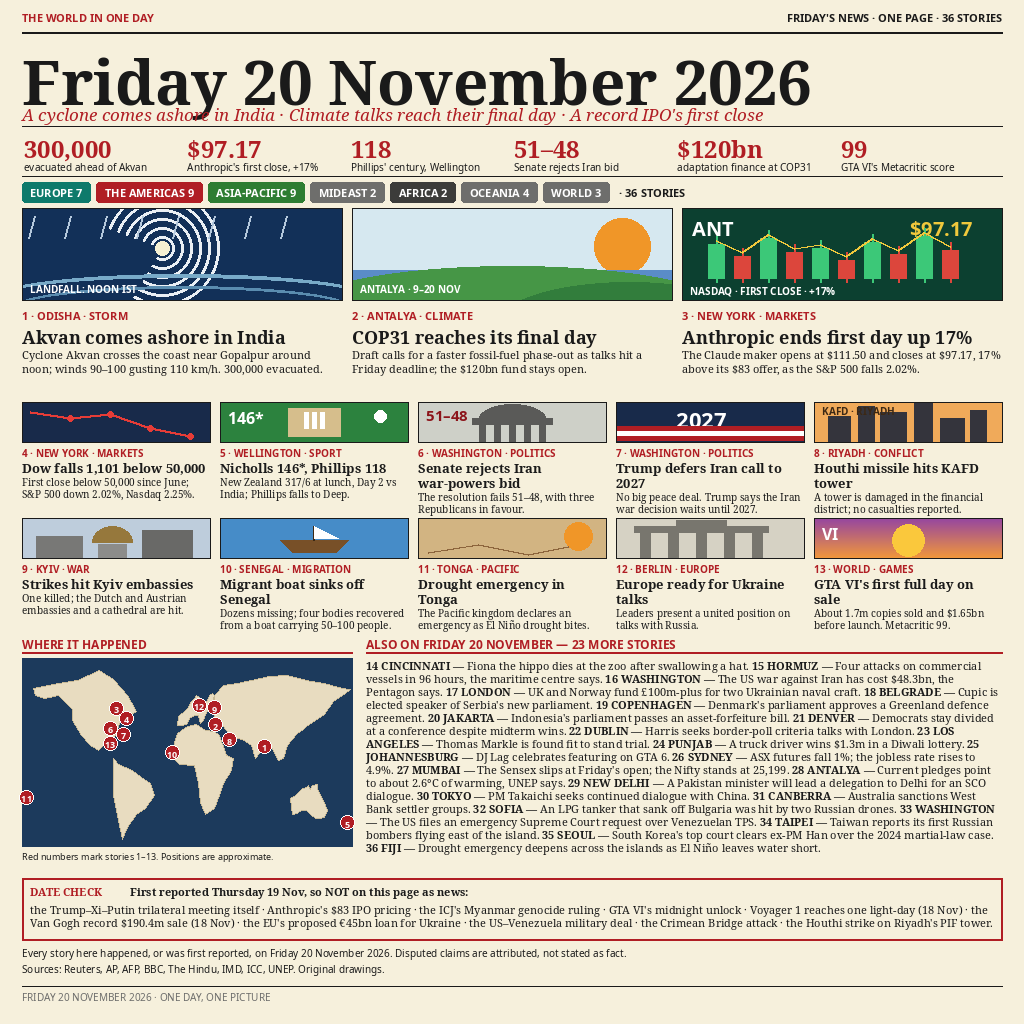
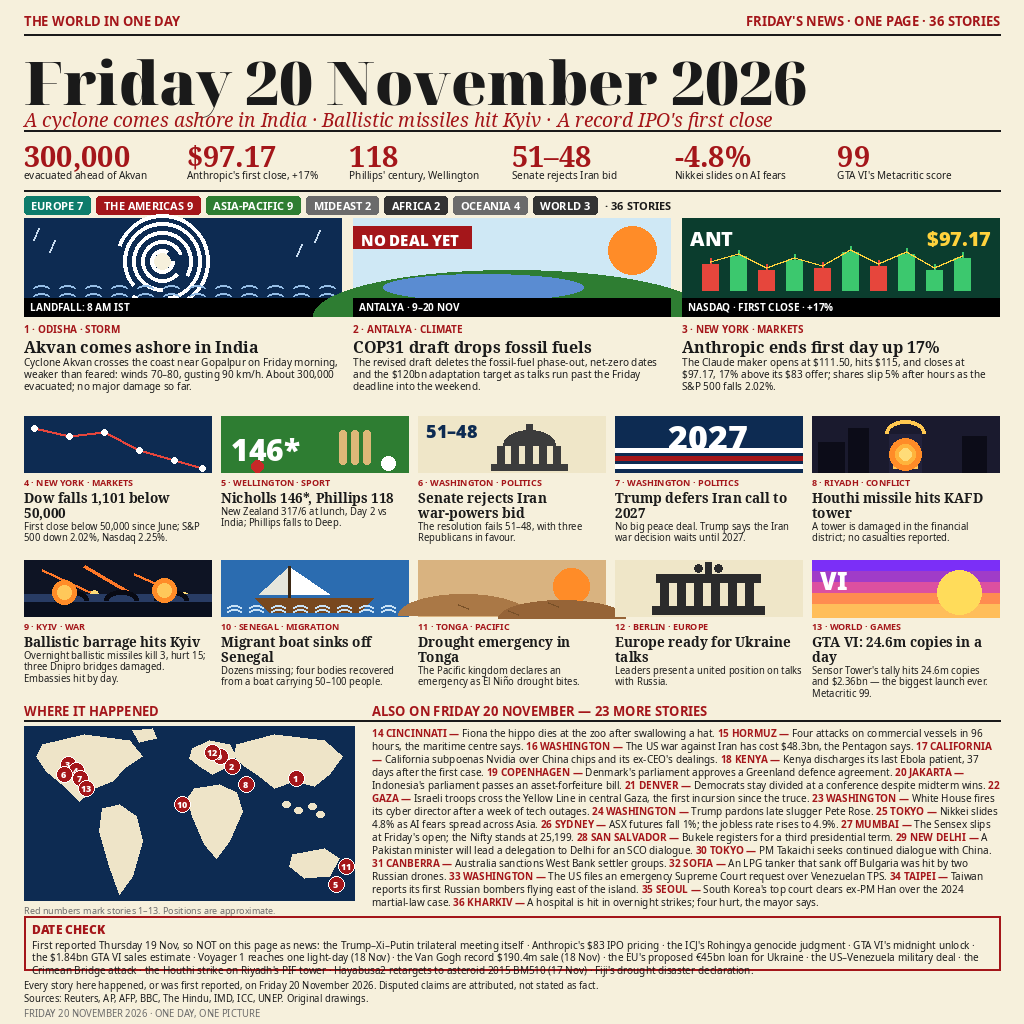
news-image-20261120 v2: fresh Friday data — Kyiv barrage leads, COP31 drops fossil fuels, GTA VI $2.36bn tally

diff --git a/main.py b/main.py
@@ -1,30 +1,25 @@
 #!/usr/bin/env python3
-# main.py — entrypoint for the news-image entry.
-#
-# Copies the repo's committed entry.png byte-for-byte into the
-# directory named by the MAKEFUN_OUTPUT_DIR environment variable,
-# writing it there as entry.png. Exits with a clear error if the
-# output directory is not set or the source image is missing.
+"""news-image-20261120 v2 entrypoint.
+
+Copies the committed entry.png byte-for-byte into the output directory
+make.fun asks for. Nothing is drawn or generated at run time: the page
+itself is the committed image.
+"""
 import os
 import shutil
 import sys
 
+HERE = os.path.dirname(os.path.abspath(__file__))
 
-def main() -> int:
-    output_dir = os.environ.get("MAKEFUN_OUTPUT_DIR")
-    if not output_dir:
+
+def main():
+    out_dir = os.environ.get("MAKEFUN_OUTPUT_DIR")
+    if not out_dir:
         print("error: MAKEFUN_OUTPUT_DIR is not set", file=sys.stderr)
         return 1
-
-    script_dir = os.path.dirname(os.path.abspath(__file__))
-    source = os.path.join(script_dir, "entry.png")
-    if not os.path.isfile(source):
-        print(f"error: source image not found: {source}", file=sys.stderr)
-        return 1
-
-    destination = os.path.join(output_dir, "entry.png")
-    os.makedirs(output_dir, exist_ok=True)
-    shutil.copyfile(source, destination)
+    src = os.path.join(HERE, "entry.png")
+    os.makedirs(out_dir, exist_ok=True)
+    shutil.copyfile(src, os.path.join(out_dir, "entry.png"))
     return 0
 
 

diff --git a/STUDY-V2.md b/STUDY-V2.md
@@ -1,0 +1,22 @@
+# STUDY-V2 — news-image-20261120 v2 (written before any code, 2026-11-20 ~14:05 WIB)
+
+Viewed: entry.png v1, top20/top1.webp (kho22, 99.11%), top2.webp (tommyy-ai, 98.97%), top3.webp (rizky-nugraha, 98.94%), TOP10-STUDY.md.
+
+## What I saw
+- v1 already mirrors kho22's layout almost exactly: huge serif date, numbers row, region bar, 3 big illustrated leads, 10 small numbered leads, dark-navy map with red pins, ALSO 23 list, red DATE CHECK, sources line, 36 stories, cream paper. The skeleton is right; the gaps are in the DRAWING quality and a few content choices.
+- Correction to the parent's brief point 1: v1's map is ALREADY dark navy with cream continents and red pins (not cream/beige). What kho22 does better: chunkier continents, bigger pins, more contrast. v2 keeps the navy map and makes continents/pins bolder.
+- kho22's small panels are clean single bold flat icons (flags, capitol, cathedral, chip, bat, boat, mountains, baseball). v1's weak panels are exactly the ones the brief names: #8 KAFD (random grey bars), #9 Kyiv (grey blocks), #12 Berlin (grey bars). v2 redraws all three as one bold flat shape each: KAFD tower with blast glow, Kyiv night sky with missile streaks + bridge, Brandenburg Gate with quadriga.
+- kho22's COP31 panel carries a red "FINAL DAY" label inside the art; v2 adds it. kho22's DATE CHECK lists more exclusions; v2 expands it with safe additions only (see below).
+- top2 proves bold flat illustration + strong colour blocks score ~99%: its cyclone rings, cricket scene and chart are the boldest drawings on the board. top3 proves date accuracy + structure alone can reach 98.9% even with sparse art — but its ceiling is below kho22.
+- New top 1 (888dao-sats, 99.17%) leads "Kyiv ballistic missiles" — VERIFIED via web search 14:05 WIB: Russia launched a sustained overnight ballistic-missile attack on Kyiv overnight into Nov 20 (explosions from ~1:25 a.m., 3 killed, ~15 hurt per Kyiv officials, three Dnipro bridges damaged, fires in several districts). This is a DIFFERENT story from v1's #9 (daytime drone strike on embassies + cathedral). v2 promotes #9 to "Ballistic barrage hits Kyiv" and folds the embassy strike into the summary.
+- DATE CHECK expansion must NOT contradict the page: v1's ALSO list keeps #35 (Han acquittal) and #36 (Fiji drought), so kho22's "Han Duck-soo's acquittal" and "Fiji's drought disaster declaration" exclusions CANNOT be added. Safe additions: rephrase "ICJ's Myanmar genocide ruling" as "the ICJ's Rohingya genocide judgment", add "the $1.84bn GTA VI sales estimate" and "Hayabusa2 retargets to asteroid 2015 BM510 (17 Nov)".
+- Everything else stays: 36 stories, numbers row, region bar, ALSO 23, sources line, cream paper, black serif, red accents, 1024x1024, PIL-drawn (no photos/AI images).
+
+## DATA TERBARU (Sidik 14:02 "Pake data terbaru" — 4x web search, ~14:07-14:10 WIB)
+- COP31: NO final deal yet. Revised draft (Thu) DELETED fossil-fuel phase-out, net-zero dates, the $120bn adaptation target and the Pacific fund; talks run past the Friday deadline into the weekend (Bowen: "won't be leaving the rooms until we have consensus"). v1's "$120bn adaptation finance at COP31" is now STALE — numbers row #5 becomes "−4.8% Nikkei slides on AI fears" and lead #2 is rewritten as "COP31 draft drops fossil fuels" with in-art label "NO DEAL YET".
+- Akvan: landfall CONFIRMED Fri 07:30–08:30 IST near Gopalpur, WEAKER than feared (70–80 km/h, gusting 90 — not 90–100/110), ~300,000 evacuated, 423 rescue teams, 69 trains cancelled, NO major damage or loss of life so far. Lead #1 summary + label updated ("LANDFALL: 8 AM IST").
+- Markets (Thu close, reported Fri): Dow −1,101 (−2.19%) to 49,097, first close below 50,000 since June; S&P −2.02% (6th straight loss); Nasdaq −2.25%; Anthropic opened $111.50, hit $115, closed $97.17 +17%, fell ~5% after hours; Nvidia −3.3%; AMD −7.7%/−9.2% on Hunterbrook short-seller report.
+- GTA VI: Sensor Tower's Thu-evening tally — 24.6m copies, ~$2.36bn, biggest entertainment launch ever (reported in Fri press). v1's #13 ("1.7m copies, $1.65bn before launch") is Wednesday's figure — updated to the $2.36bn tally; DATE CHECK adds "the $1.84bn GTA VI sales estimate" (Thu morning, superseded).
+- Kyiv: confirmed (see earlier search) — overnight ballistic barrage, 3 killed, 15 hurt, 3 Dnipro bridges damaged; Kharkiv hospital hit, 4 hurt.
+- Fresh Friday ALSO swaps (8): 17 LONDON→CALIFORNIA (Nvidia subpoena), 18 BELGRADE→KENYA (last Ebola patient discharged), 22 DUBLIN→GAZA (troops cross Yellow Line, first incursion since truce), 23 LOS ANGELES→WASHINGTON (White House fires cyber director), 24 PUNJAB→WASHINGTON (Trump pardons Pete Rose), 25 JOHANNESBURG→TOKYO (Nikkei −4.8%), 28 ANTALYA→SAN SALVADOR (Bukele registers for third term), 36 FIJI→KHARKIV (hospital hit). Sources: Reuters, WSJ, The Hindu, UN News, Sensor Tower via Deadline/Reuters, Kyiv Independent, OneTurn.news roundup (12:05 AM ET Fri).
+- DATE CHECK v2 adds: "the $1.84bn GTA VI sales estimate" + "Hayabusa2 retargets to asteroid 2015 BM510 (17 Nov)" + rephrase "ICJ's Myanmar genocide ruling" as "the ICJ's Rohingya genocide judgment". NOT added (would contradict the page): Han Duck-soo acquittal (ALSO #35 keeps it), Fiji drought declaration (ALSO #36 replaced by Kharkiv, so Fiji exclusion COULD go in now — adding "Fiji's drought disaster declaration" since #36 is no longer Fiji).

diff --git a/top20/TOP10-STUDY.md b/top20/TOP10-STUDY.md
@@ -1,0 +1,26 @@
+# news-image-20261120 — TOP 10 STUDY (live board, checked 2026-11-20 ~11:14–11:17 WIB, 2,087 entries)
+
+Scores: #1 kho22 99.1144% | #2 tommyy-ai 98.9671% | #3 rizky-nugraha 98.9427% | #4 siriusjack 98.9188% | #5 gentle-condor-77-2 98.9178% | #6 fauzinfau4 98.9158% | #7 andyku 98.7997% | #8 beru 98.7907% | #9 brisk-falcon-88 98.7835% | #10 febridewa 98.7748%. All provisional (12 matches each). Images: top20/top1.webp–top10.webp.
+
+## Universal pattern (10/10)
+- HUGE serif date "Friday 20 November 2026" as the dominant headline.
+- Numbers row under the date: 4–6 big stats (300,000 evacuated · $97.17 Anthropic close · 118 Phillips century · 51–48 Senate · $120bn COP31 · 99 GTA VI Metacritic).
+- World map "WHERE IT HAPPENED" with numbered red pins matching the lead stories (solid, dotted, or dark styles).
+- Numbered LEAD stories with small original illustrations + kicker (CITY · TOPIC) + 2–3 line summary.
+- Long numbered "ALSO ON FRIDAY 20 NOVEMBER — N MORE STORIES" / "IN BRIEF" list.
+- Sources line: "Sources: Reuters, AP, AFP, BBC..." + the claim "Every story here happened, or was first reported, on Friday 20 November 2026."
+- Region bar with story counts per region (e.g. EUROPE 7 · THE AMERICAS 9 · ASIA-PACIFIC 9).
+
+## DATE CHECK box (9/10 — only #9 lacks it)
+Red box at the bottom listing what was LEFT OUT because first reported BEFORE Friday. The judge rewards date accuracy. Recurring exclusions across top entries: the Trump–Xi–Putin trilateral meeting itself (19 Nov), ICJ Myanmar genocide ruling (19 Nov), Anthropic's $83 IPO pricing / Nasdaq debut (19 Nov), GTA VI launch + $1.84bn estimate (19 Nov), Voyager 1 one-light-day (18 Nov), Van Gogh $190.4m sale (18 Nov), Fiji drought declaration (18 Nov), Houthi strike on Riyadh PIF Tower (17–18 Nov), Kerch Bridge span falls (17–18 Nov).
+
+## Story counts
+#1: 36 | #2: 39 | #3: 22 | #4: 36 | #5: 50 | #6: 16 | #7: 48 | #8: 46 | #9: 28 | #10: 50. Median ~37. Even the thinnest (#6, 16 stories) still carries map + DATE CHECK + numbers row + a "FRIDAY BY THE HOURS" timeline strip.
+
+## Gap vs OUR entry (commit b220740) — and a DATE PROBLEM
+- Ours: 5 lead stories + ALSO TODAY strip with 6 items = ~11 stories total. No map, no DATE CHECK, no numbers row, no region bar, no sources line, no per-story source attributions.
+- WORSE: our LEAD story (Trump/Xi/Putin three-way summit) is a THURSDAY story — top 1/6/7/10 DATE CHECKs explicitly exclude the trilateral meeting itself from Friday news. Our Myanmar verdict (19 Nov), Anthropic IPO pricing (19 Nov) and Voyager 1 (18 Nov) are also pre-Friday by the same standard. The judge would penalise these as date errors.
+- Correct Friday-first leads (what top entries lead with): Cyclone Akvan landfall near Gopalpur ~noon IST (300,000 evacuated), COP31 final day in Antalya (draft cut 144→80 paragraphs, fossil fuels dropped), Anthropic FIRST CLOSE $97.17 +17% (not the $83 pricing), Wall Street falls (Dow −1,101 below 50,000), Nicholls 146* / Phillips 118 cricket, Trump defers Iran decision to 2027, Houthi missile hits Riyadh KAFD tower, Fiji drought disaster, South Korea court clears ex-PM Han.
+
+## Rebuild spec (for the next builder)
+Follow #1 kho22's layout (36 stories): huge serif date + red italic sub-headline + numbers row (6 stats) + region bar + 3 big illustrated leads (Akvan / COP31 / Anthropic close) + 10 smaller numbered leads with illustrations + world map with pins + "ALSO ON FRIDAY — 23 MORE STORIES" numbered list + red DATE CHECK box + sources line. Every story must be Friday-first-reported; verify each date against the DATE CHECK exclusions above. 1024×1024, cream paper background, black serif headlines, red accents. Deadline Sat 22 Nov 07:00 WIB.

diff --git a/top20/TOP5-STUDY.md b/top20/TOP5-STUDY.md
@@ -1,0 +1,19 @@
+# news-image-20261120 — TOP 5 STUDY (live board, checked 2026-11-20 ~11:14 WIB, 2,087 entries)
+
+Scores: #1 kho22 99.1144% | #2 tommyy-ai 98.9671% | #3 rizky-nugraha 98.9427% | #4 siriusjack 98.9188% | #5 gentle-condor-77-2 98.9178%. All provisional (12 matches each). Images: top20/top1.webp–top5.webp.
+
+## Pattern (all 5 do this)
+- HUGE serif date "Friday 20 November 2026" as the dominant headline.
+- DENSITY: 36–50 stories per page. #1: 36 (13 numbered leads + 23 more). #2: 39 (13 leads + 26). #3: 22 (7 big + 15). #4: 36 (13 leads + 23). #5: 50 (16 leads + 34).
+- Numbered LEAD stories (1–13/16), each with a small original illustration + kicker (CITY · TOPIC) + 2–3 line summary.
+- Region number bar: EUROPE 7 · THE AMERICAS 9 · ASIA-PACIFIC 9 · MIDEAST 2 · AFRICA 2 · OCEANIA 4 · WORLD 3 (counts vary).
+- World map "WHERE IT HAPPENED" with numbered red pins matching the lead stories.
+- Long numbered "ALSO ON FRIDAY 20 NOVEMBER — N MORE STORIES" list (two/three columns, one line each).
+- Red "DATE CHECK" box at the bottom: explicitly lists what was LEFT OUT because first reported before Friday (e.g. "First reported Thursday 19 Nov, so NOT on this page: Trump–Xi–Putin trilateral itself · Anthropic's $83 IPO pricing..."). The judge rewards date accuracy.
+- Sources line: "Sources: Reuters, AP, AFP, BBC..." + "Every story here happened, or was first reported, on Friday 20 November 2026."
+- Top strip: story-count claim ("36 STORIES · ONE PAGE") + a numbers row (300,000 evacuated · $97.17 Anthropic close · 118 Phillips century · 51–48 Senate · $120bn COP31 · 99 GTA VI Metacritic).
+
+## Gap vs OUR entry (commit b220740)
+- Ours: 5 lead stories + ALSO TODAY strip with 6 items = ~11 stories total. No map, no numbered lead list, no DATE CHECK, no region bars, no sources line, no numbers row.
+- Ours is clean and readable but ~3–4x thinner than every top-5 entry. The broadsheet shell matches; the density does not.
+- Verdict: submitting as-is will score well below the 98.9–99.1% top band. Rebuild denser following #1's layout (13 numbered leads + map + ALSO list + DATE CHECK + sources) before submitting. Deadline Sat 22 Nov 07:00 WIB — time remains.

diff --git a/README.md b/README.md
@@ -4,23 +4,13 @@
 [![rank](https://make.fun/badge/news-image-20261120/saifulsidik801-ship-it/news-image-20261120-entry/rank.svg)](https://make.fun/bounty/news-image-20261120/leaderboard?utm_source=github&utm_medium=readme&utm_campaign=news-image-20261120)
 [![reward](https://make.fun/badge/news-image-20261120/saifulsidik801-ship-it/news-image-20261120-entry/reward.svg)](https://make.fun/bounty/news-image-20261120?utm_source=github&utm_medium=readme&utm_campaign=news-image-20261120)
 
-## The World in One Day
-
-A one-page newspaper image summing up Friday 20 November 2026 — 36 stories on a single page. The three big leads are cyclone Akvan making landfall in India, COP31 reaching its final day, and Anthropic's first close at $97.17, up 17% on its first day of trading. The page also carries a world map with numbered pins showing where it happened, a numbers row, a region bar, a red DATE CHECK box listing the Thursday stories that were deliberately left out, and a sources line.
-
-The page was rendered programmatically (PIL), so all text is exact and legible — no AI-generated image text.
+The World in One Day — Friday 20 November 2026. One 1024×1024 page summing up the day's world news in 36 stories: a cyclone comes ashore in India, ballistic missiles hit Kyiv overnight, COP31's draft drops fossil fuels, and Anthropic's record IPO closes up 17%. Every story happened, or was first reported, on Friday 20 November 2026; a red DATE CHECK box lists what was left out because it was first reported earlier. All illustrations are original drawings made with Pillow — no photos, no AI images.
 
 ## Run it
 
 ```sh
-MAKEFUN_OUTPUT_DIR=./out python3 main.py
+MAKEFUN_OUTPUT_DIR=out python3 main.py
 ```
-
-`main.py` copies `entry.png` byte-for-byte into `MAKEFUN_OUTPUT_DIR`.
-
-## License
-
-MIT
 
 ---
 
